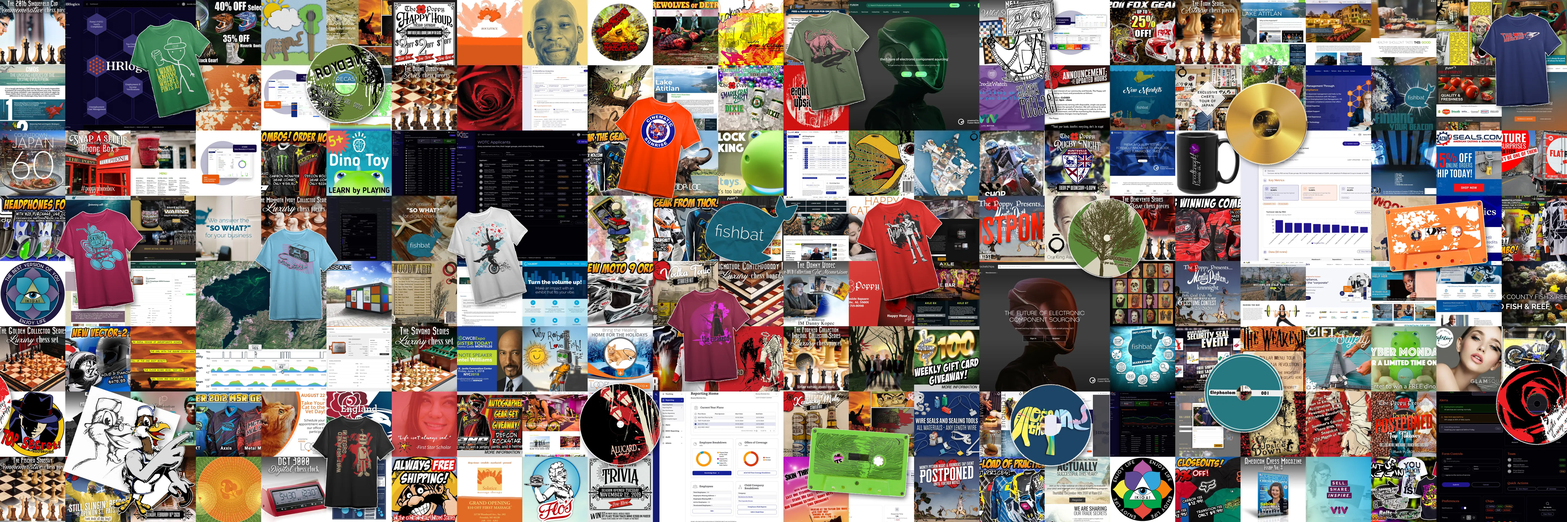
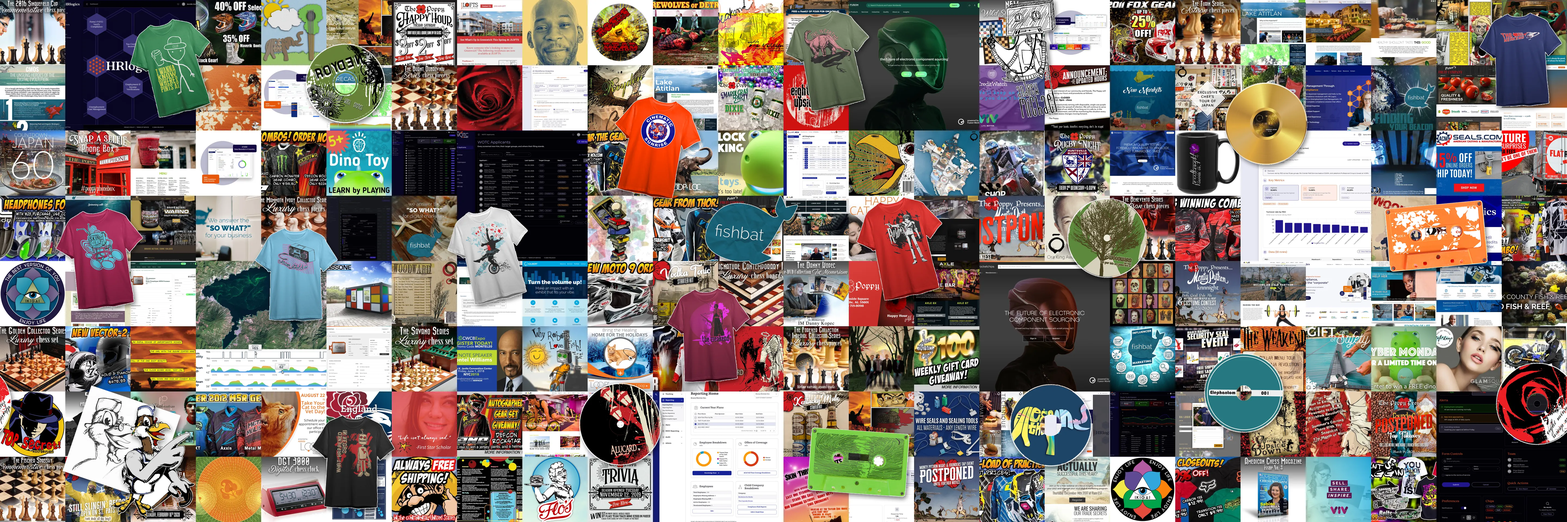
Take the Solstice identity off the site, only the website redesign was mine

Changed region(s): [[0.2812, 0.875, 0.3438, 1.0], [0.2812, 0.0, 0.3438, 0.125], [0.9375, 0.125, 1.0, 0.25]]

diff --git a/src/pages/graphics/gallery/PrintPage.tsx b/src/pages/graphics/gallery/PrintPage.tsx
@@ -8,14 +8,6 @@ import MenuBeer from 'src/assets/images/case-studies/poppy/menu-beer.jpg';
 import MenuCask from 'src/assets/images/case-studies/poppy/menu-cask.jpg';
 import MenuDraft from 'src/assets/images/case-studies/poppy/menu-draft.jpg';
 import MenuHuttonSmithDraft from 'src/assets/images/case-studies/poppy/menu-hutton-smith-draft.jpg';
-import AdGrandOpening from 'src/assets/images/case-studies/solstice/ad-grand-opening.jpg';
-import CardBack from 'src/assets/images/case-studies/solstice/card-back.jpg';
-import CardFront from 'src/assets/images/case-studies/solstice/card-front.jpg';
-import GiftBack from 'src/assets/images/case-studies/solstice/gift-back.jpg';
-import GiftFront from 'src/assets/images/case-studies/solstice/gift-front.jpg';
-import Letterhead from 'src/assets/images/case-studies/solstice/letterhead.jpg';
-import SignPanelMark from 'src/assets/images/case-studies/solstice/sign-panel-mark.jpg';
-import WindowSign from 'src/assets/images/case-studies/solstice/window-sign.jpg';
 import AssisiBackwall from 'src/assets/images/graphics/print/assisi-backwall.jpg';
 import AssisiBannerStand from 'src/assets/images/graphics/print/assisi-banner-stand.jpg';
 import AssisiLoopAidFlyer from 'src/assets/images/graphics/print/assisi-loop-aid-flyer.jpg';
@@ -58,18 +50,6 @@ import ZornsMenu from 'src/assets/images/graphics/print/zorns-menu.jpg';
 import GalleryPage, { GalleryItem } from 'src/pages/graphics/gallery/GalleryPage';
 
 const ITEMS: GalleryItem[] = [
-  { img: CardFront, title: 'Business card, front', meta: 'Solstice Massage Therapy · 2007' },
-  { img: CardBack, title: 'Business card, back', meta: 'Solstice Massage Therapy · 2007' },
-  { img: GiftFront, title: 'Gift certificate, front', meta: 'Solstice Massage Therapy · 2007' },
-  { img: GiftBack, title: 'Gift certificate, back', meta: 'Solstice Massage Therapy · 2007' },
-  { img: Letterhead, title: 'Letterhead', meta: 'Solstice Massage Therapy · 2007' },
-  { img: AdGrandOpening, title: 'Grand-opening ad', meta: 'Solstice Massage Therapy · 2007' },
-  { img: WindowSign, title: 'Window sign', meta: 'Solstice Massage Therapy · 2007' },
-  {
-    img: SignPanelMark,
-    title: 'Exterior sign, mark panel',
-    meta: 'Solstice Massage Therapy · 2007',
-  },
   { img: MenuDraft, title: 'Draft menu', meta: 'The Poppy & Parliament · 2019' },
   { img: MenuBeer, title: 'Beer menu', meta: 'The Poppy & Parliament · 2019' },
   { img: MenuCask, title: 'Cask menu', meta: 'The Poppy & Parliament · 2019' },
@@ -168,7 +148,7 @@ function PrintPage() {
     <GalleryPage
       title={'Print'}
       intro={
-        'Business cards, menus, signs, banners, flyers, and trade-show booths, from show flyers in 2005 to a full storefront identity.'
+        'Business cards, menus, signs, banners, flyers, and trade-show booths, from show flyers in 2005 to the HRlogics trade-show booth in 2025.'
       }
       items={ITEMS}
     />

diff --git a/src/pages/graphics/GraphicsDashboard.tsx b/src/pages/graphics/GraphicsDashboard.tsx
@@ -6,7 +6,6 @@ import { Link } from 'react-router-dom';
 import ShowBannerA from 'src/assets/images/case-studies/hrlogics/show-banner-a.jpg';
 import CampStPatricksDay from 'src/assets/images/case-studies/poppy/camp-st-patricks-day.jpg';
 import GiftCards from 'src/assets/images/case-studies/poppy/gift-cards.jpg';
-import MarkLockup from 'src/assets/images/case-studies/solstice/mark-lockup.png';
 import AssisiHealingHome from 'src/assets/images/graphics/ads/assisi-healing-home.jpg';
 import FishbatInfluencer from 'src/assets/images/graphics/ads/fishbat-influencer.jpg';
 import HosForeverCollection from 'src/assets/images/graphics/ads/hos-forever-collection.jpg';
@@ -15,6 +14,7 @@ import FlosMascot from 'src/assets/images/graphics/illustrations/flos-mascot.jpg
 import Tapebot from 'src/assets/images/graphics/illustrations/tapebot.jpg';
 import WhyRobotsLoveFish from 'src/assets/images/graphics/illustrations/why-robots-love-fish.jpg';
 import Hrlogics from 'src/assets/images/graphics/logos/hrlogics.jpg';
+import IkigaiColorSeal from 'src/assets/images/graphics/logos/ikigai-color-seal.jpg';
 import PoppyParliamentStacked from 'src/assets/images/graphics/logos/poppy-parliament-stacked.jpg';
 import Ryze from 'src/assets/images/graphics/logos/ryze.jpg';
 import AxleSlickFront from 'src/assets/images/graphics/print/axle-slick-front.jpg';
@@ -219,7 +219,7 @@ function GraphicsDashboard() {
             { img: Hrlogics, alt: 'HRlogics logo' },
             { img: Ryze, alt: 'Ryze logo' },
             { img: PoppyParliamentStacked, alt: 'The Poppy & Parliament logo' },
-            { img: MarkLockup, alt: 'Solstice Massage Therapy logo' },
+            { img: IkigaiColorSeal, alt: 'Ikigai seal' },
           ]}
         />
       </Row>

diff --git a/src/pages/graphics/gallery/LogosPage.tsx b/src/pages/graphics/gallery/LogosPage.tsx
@@ -3,8 +3,6 @@ import React from 'react';
 import Logos2024 from 'src/assets/images/case-studies/hrlogics/logos-2024.jpg';
 import LogoFullBlack from 'src/assets/images/case-studies/poppy/logo-full-black.png';
 import MarkRed from 'src/assets/images/case-studies/poppy/mark-red.svg';
-import MarkLockup from 'src/assets/images/case-studies/solstice/mark-lockup.png';
-import Mark from 'src/assets/images/case-studies/solstice/mark.png';
 import Acm from 'src/assets/images/graphics/logos/acm.jpg';
 import Aea from 'src/assets/images/graphics/logos/aea.jpg';
 import Alchemy521 from 'src/assets/images/graphics/logos/alchemy-521.jpg';
@@ -65,8 +63,6 @@ const ITEMS: GalleryItem[] = [
     meta: 'The Poppy & Parliament · 2019',
   },
   { img: MarkRed, title: 'The Poppy mark', meta: 'The Poppy & Parliament · 2019' },
-  { img: MarkLockup, title: 'Solstice Massage Therapy', meta: 'Solstice Massage Therapy · 2007' },
-  { img: Mark, title: 'The Solstice sun', meta: 'Solstice Massage Therapy · 2007' },
   { img: IkigaiColorSeal, title: 'Ikigai seal', meta: 'Ikigai · 2019' },
   { img: IkigaiBestVersion, title: 'The best version of you', meta: 'Ikigai · 2020' },
   { img: VoodooLounge, title: 'The Voodoo Lounge', meta: 'Voodoo Lounge · 2020' },

diff --git a/src/components/WebsitesCard/WebsitesCardConstants.tsx b/src/components/WebsitesCard/WebsitesCardConstants.tsx
@@ -736,11 +736,11 @@ export const solsticeContent = {
   subtitle: 'Marketing Website with Online Booking',
   year: '2026',
   description:
-    'Solstice has been on Woodward Avenue since 2007, and so has the identity I designed for its ' +
-    'grand opening. The original website, built by someone else in 2008, went down suddenly. I gathered the old ' +
-    'files and rebuilt it as a modern, responsive site, cutting the fat and filling in what the ' +
-    'original was missing. It has the full service menu and pricing, the therapist bio, ' +
-    'directions, and online booking through Booksy.',
+    'Solstice is a massage studio that has been on Woodward Avenue since 2007. Its original ' +
+    'website went down suddenly, so I gathered the old files and redesigned it as a modern, ' +
+    'responsive site, cutting the fat and filling in what the original was missing. It has the ' +
+    'full service menu and pricing, the therapist bio, directions, and online booking through ' +
+    'Booksy.',
   poweredBy: 'React + Vite / Netlify',
   toolsUsed: 'React, React Router, CSS Modules, Booksy',
   logo: SolsticeLogo,

diff --git a/src/pages/case-studies/CaseStudiesPage.tsx b/src/pages/case-studies/CaseStudiesPage.tsx
@@ -9,9 +9,8 @@ import freshWater from 'src/pages/case-studies/FreshWater';
 import fusionOnline from 'src/pages/case-studies/FusionOnline';
 import hrlogics from 'src/pages/case-studies/HRlogics';
 import poppyParliament from 'src/pages/case-studies/PoppyParliament';
-import solstice from 'src/pages/case-studies/Solstice';
 
-const CASES = [fusionOnline, hrlogics, designSystem, freshWater, poppyParliament, solstice];
+const CASES = [fusionOnline, hrlogics, designSystem, freshWater, poppyParliament];
 
 const caseTop = (id: string) =>
   document.getElementById(`case-${id}`)?.getBoundingClientRect().top ?? 0;
